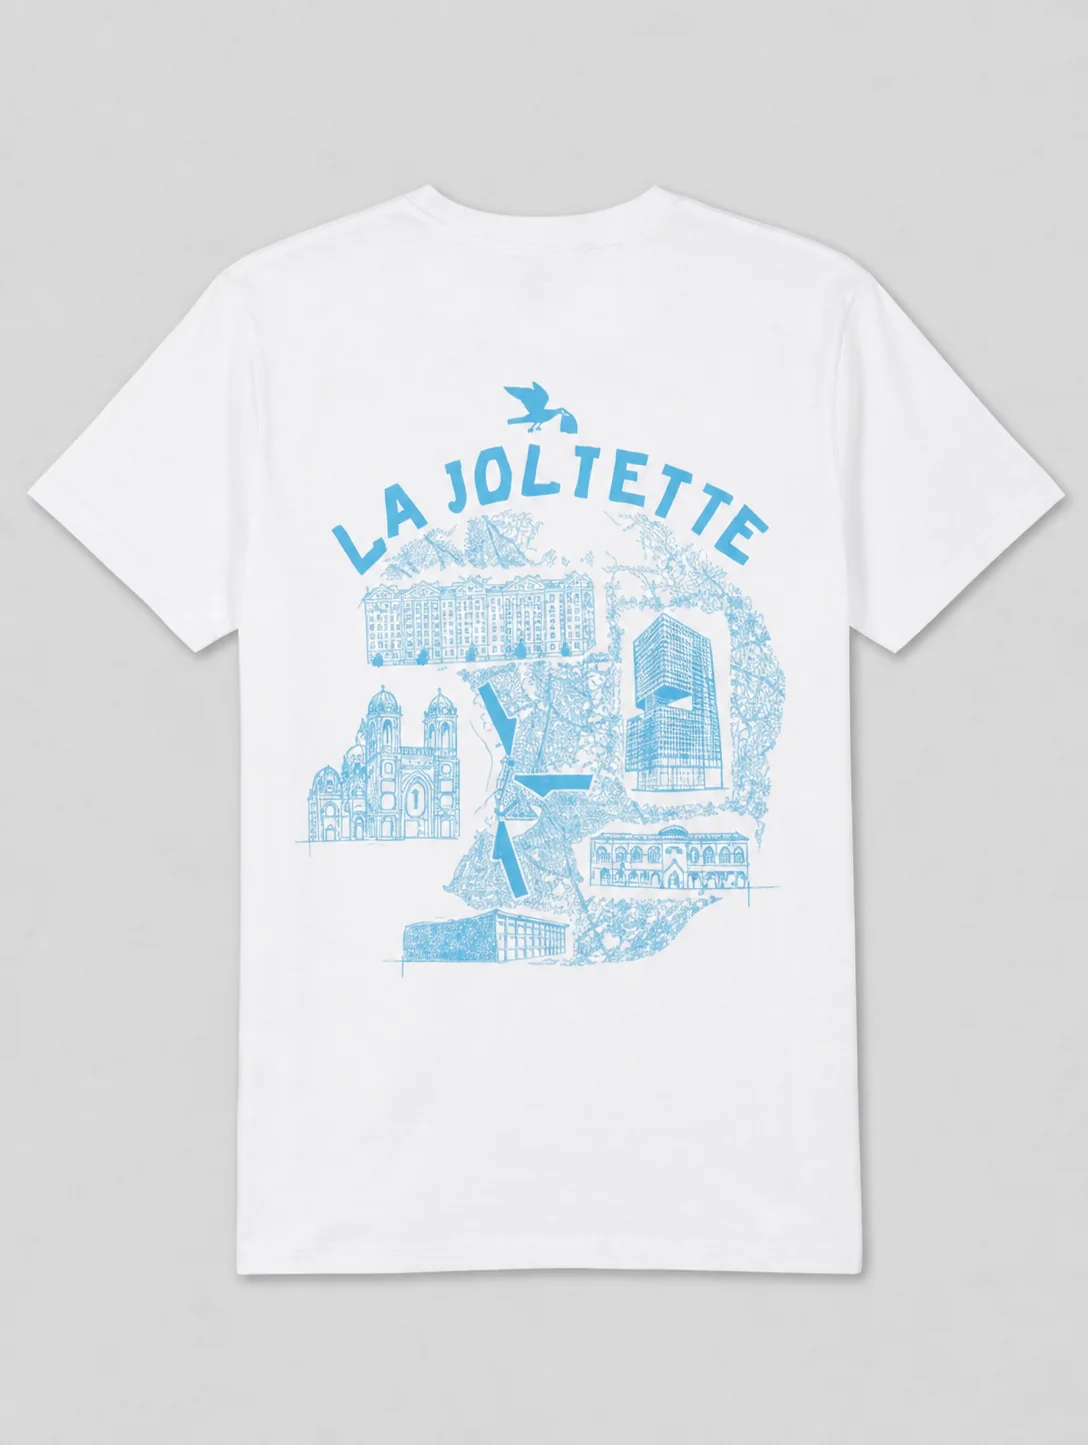
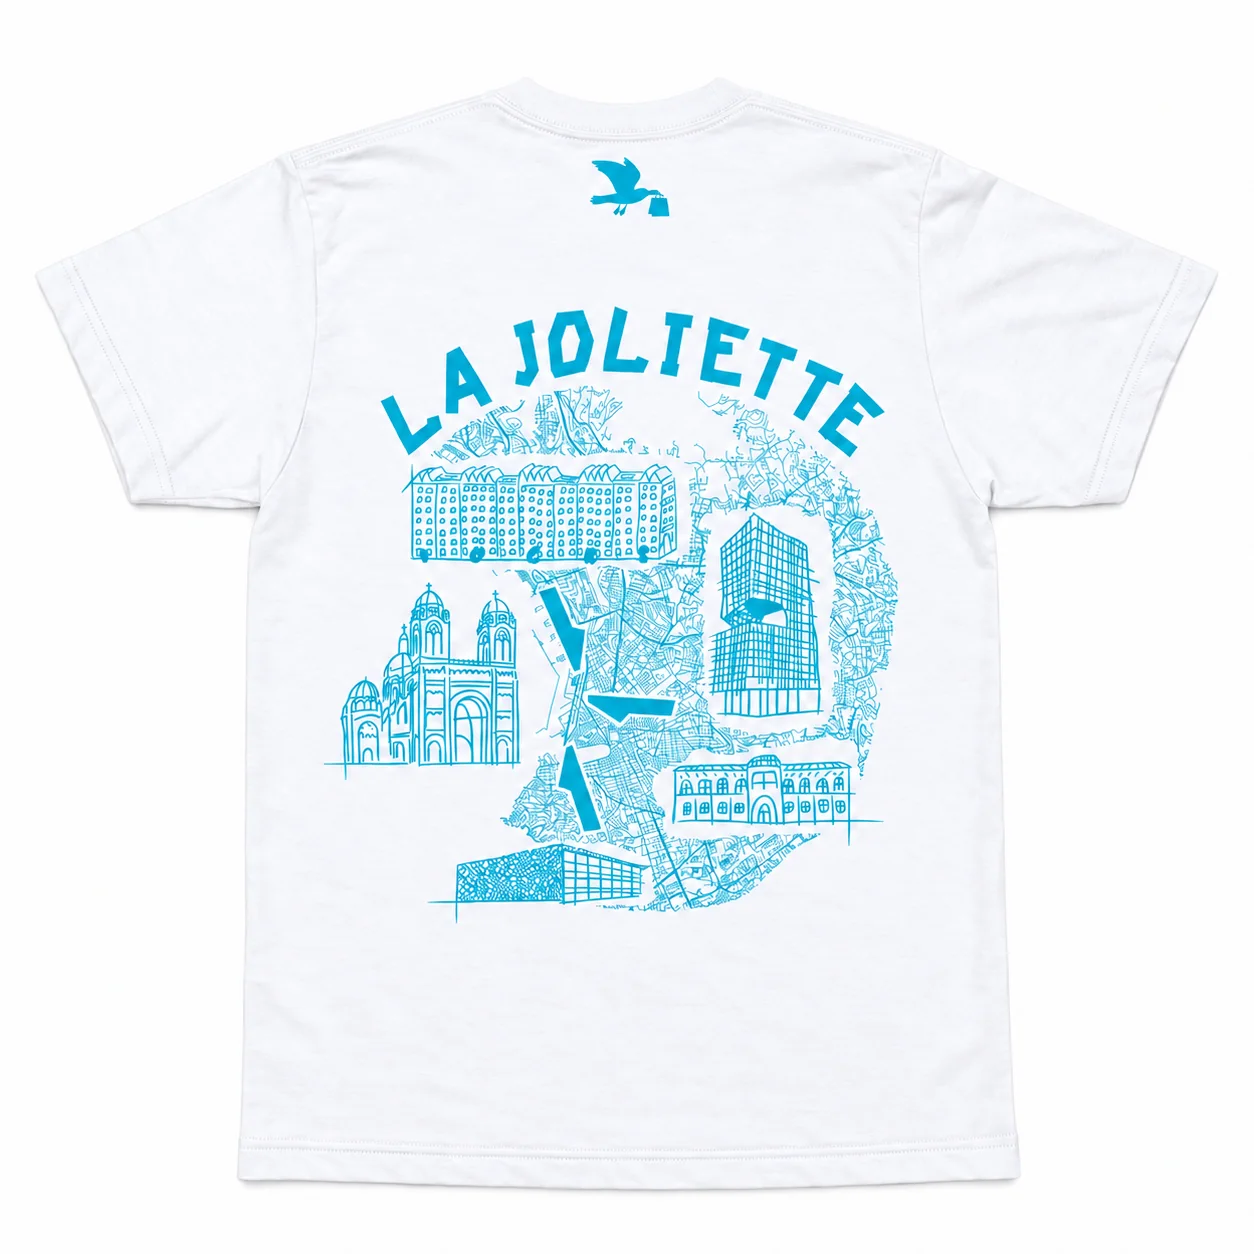
Publie les visuels de trois quartiers

diff --git a/lib/neighborhoods.ts b/lib/neighborhoods.ts
@@ -4,8 +4,7 @@ import { AVAILABLE_NEIGHBORHOOD_SLUGS, isNeighborhoodAvailable, PRODUCT_PRICE_EU
 import { mockNeighborhoods, mockSearchIndex, mockVoteSummaries, mockVotes } from "@/lib/mock-data";
 import { neighborhoodDescriptions } from "@/lib/neighborhood-descriptions";
 import {
-  hasPublishedProductImages,
-  laJolietteGallery
+  getPublishedProductGallery
 } from "@/lib/product-illustrations";
 import { createAdminSupabaseClient, createPublicSupabaseClient, hasSupabaseEnv } from "@/lib/supabase/server";
 import { parseCoordinates, parseSeoMetadata, parseStock, slugify } from "@/lib/utils";
@@ -36,10 +35,9 @@ function enrichNeighborhood(
 ): Neighborhood {
   const seo = parseSeoMetadata(row.seo_metadata);
   const slug = seo.slug ?? slugify(row.name);
-  const hasProductImages = hasPublishedProductImages(row.name);
-  const gallery = hasProductImages
-    ? laJolietteGallery
-    : seo.gallery ?? [
+  const publishedGallery = getPublishedProductGallery(row.name);
+  const gallery = publishedGallery
+    ?? seo.gallery ?? [
         { label: "Photo à plat", url: row.image_url },
         { label: "Porté mannequin", url: row.image_url }
       ];
@@ -51,7 +49,7 @@ function enrichNeighborhood(
     arrondissement: row.arrondissement,
     price: PRODUCT_PRICE_EUROS,
     stockBySize: parseStock(row.stock_by_size),
-    imageUrl: hasProductImages ? laJolietteGallery[0].url : row.image_url,
+    imageUrl: publishedGallery?.[0].url ?? row.image_url,
     descriptionHistory: neighborhoodDescriptions[slug] ?? row.description_history,
     coordinates: parseCoordinates(row.coordinates),
     isAvailable: isNeighborhoodAvailable(slug),

diff --git a/lib/product-illustrations.ts b/lib/product-illustrations.ts
@@ -1,24 +1,32 @@
 import type { ProductGalleryImage } from "@/lib/types";
 
-export const laJolietteGallery: ProductGalleryImage[] = [
-  {
-    label: "À plat · dos",
-    url: "/illustrations/la-joliette-plat-dos.webp?v=webp-1"
-  },
-  {
-    label: "À plat · face",
-    url: "/illustrations/la-joliette-plat-face.webp?v=webp-1"
-  },
-  {
-    label: "Porté · face",
-    url: "/illustrations/la-joliette-porte-face.webp?v=webp-1"
-  },
-  {
-    label: "Porté · dos",
-    url: "/illustrations/la-joliette-porte-dos.webp?v=webp-1"
-  }
-];
+function galleryFor(slug: string): ProductGalleryImage[] {
+  return [
+    {
+      label: "À plat · dos",
+      url: `/illustrations/${slug}-plat-dos.webp?v=webp-2`
+    },
+    {
+      label: "À plat · face",
+      url: `/illustrations/${slug}-plat-face.webp?v=webp-2`
+    },
+    {
+      label: "Porté · face",
+      url: `/illustrations/${slug}-porte-face.webp?v=webp-2`
+    },
+    {
+      label: "Porté · dos",
+      url: `/illustrations/${slug}-porte-dos.webp?v=webp-2`
+    }
+  ];
+}
 
-export function hasPublishedProductImages(name: string) {
-  return name === "La Joliette";
+const publishedProductGalleries: Record<string, ProductGalleryImage[]> = {
+  "La Joliette": galleryFor("la-joliette"),
+  "Cinq-Avenues": galleryFor("cinq-avenues"),
+  "Notre-Dame-du-Mont": galleryFor("notre-dame-du-mont")
+};
+
+export function getPublishedProductGallery(name: string) {
+  return publishedProductGalleries[name];
 }

diff --git a/lib/mock-data.ts b/lib/mock-data.ts
@@ -2,8 +2,7 @@ import neighborhoodCatalog from "@/lib/marseille-neighborhoods.json";
 import { getNeighborhoodCatalogStatus, isNeighborhoodAvailable, PRODUCT_PRICE_EUROS } from "@/lib/constants";
 import { neighborhoodDescriptions } from "@/lib/neighborhood-descriptions";
 import {
-  hasPublishedProductImages,
-  laJolietteGallery
+  getPublishedProductGallery
 } from "@/lib/product-illustrations";
 import type {
   Neighborhood,
@@ -52,11 +51,9 @@ function galleryFor(label: string): ProductGalleryImage[] {
 export const mockNeighborhoods: Neighborhood[] = definitions.map((item, index) => {
   const slug = item.slug;
   const status = getNeighborhoodCatalogStatus(slug);
-  const hasProductImages = hasPublishedProductImages(item.name);
+  const publishedGallery = getPublishedProductGallery(item.name);
   const isAvailable = isNeighborhoodAvailable(slug);
-  const gallery = hasProductImages
-    ? laJolietteGallery
-    : galleryFor(item.name);
+  const gallery = publishedGallery ?? galleryFor(item.name);
   const voteCount = 0;
   const salesCount = isAvailable ? 9 + (index % 5) * 3 : 0;
   const stockSeed = isAvailable ? 4 + (index % 3) * 2 : 0;

diff --git a/tests/product-illustrations.test.ts b/tests/product-illustrations.test.ts
@@ -1,0 +1,29 @@
+import assert from "node:assert/strict";
+import test from "node:test";
+
+import { getPublishedProductGallery } from "../lib/product-illustrations";
+
+test("published neighborhood galleries expose four optimized product views", () => {
+  for (const [name, slug] of [
+    ["La Joliette", "la-joliette"],
+    ["Cinq-Avenues", "cinq-avenues"],
+    ["Notre-Dame-du-Mont", "notre-dame-du-mont"]
+  ]) {
+    const gallery = getPublishedProductGallery(name);
+
+    assert.equal(gallery?.length, 4);
+    assert.deepEqual(
+      gallery?.map((image) => image.url),
+      [
+        `/illustrations/${slug}-plat-dos.webp?v=webp-2`,
+        `/illustrations/${slug}-plat-face.webp?v=webp-2`,
+        `/illustrations/${slug}-porte-face.webp?v=webp-2`,
+        `/illustrations/${slug}-porte-dos.webp?v=webp-2`
+      ]
+    );
+  }
+});
+
+test("unpublished neighborhoods keep their configured fallback gallery", () => {
+  assert.equal(getPublishedProductGallery("Noailles"), undefined);
+});

diff --git a/components/home/hero-section.tsx b/components/home/hero-section.tsx
@@ -28,7 +28,7 @@ export function HeroSection() {
         </div>
 
         <div className="relative min-h-[520px] overflow-hidden bg-[#f3f3f3] lg:min-h-0">
-          <ProductImage priority src="/illustrations/la-joliette-porte-dos.webp?v=webp-1" sizes="(max-width: 1023px) 100vw, 54vw" alt="T-shirt 111 La Joliette porté" className="h-full w-full object-contain object-center transition duration-700 hover:scale-[1.02]" />
+          <ProductImage priority src="/illustrations/la-joliette-porte-dos.webp?v=webp-2" sizes="(max-width: 1023px) 100vw, 54vw" alt="T-shirt 111 La Joliette porté" className="h-full w-full object-contain object-center transition duration-700 hover:scale-[1.02]" />
           <div className="absolute bottom-5 left-5 right-5 flex items-end justify-between rounded-2xl bg-white/90 p-4 backdrop-blur-md sm:bottom-8 sm:left-8 sm:right-8">
             <div>
               <p className="text-xs font-bold uppercase tracking-[0.18em] text-sea">La collection 111</p>
